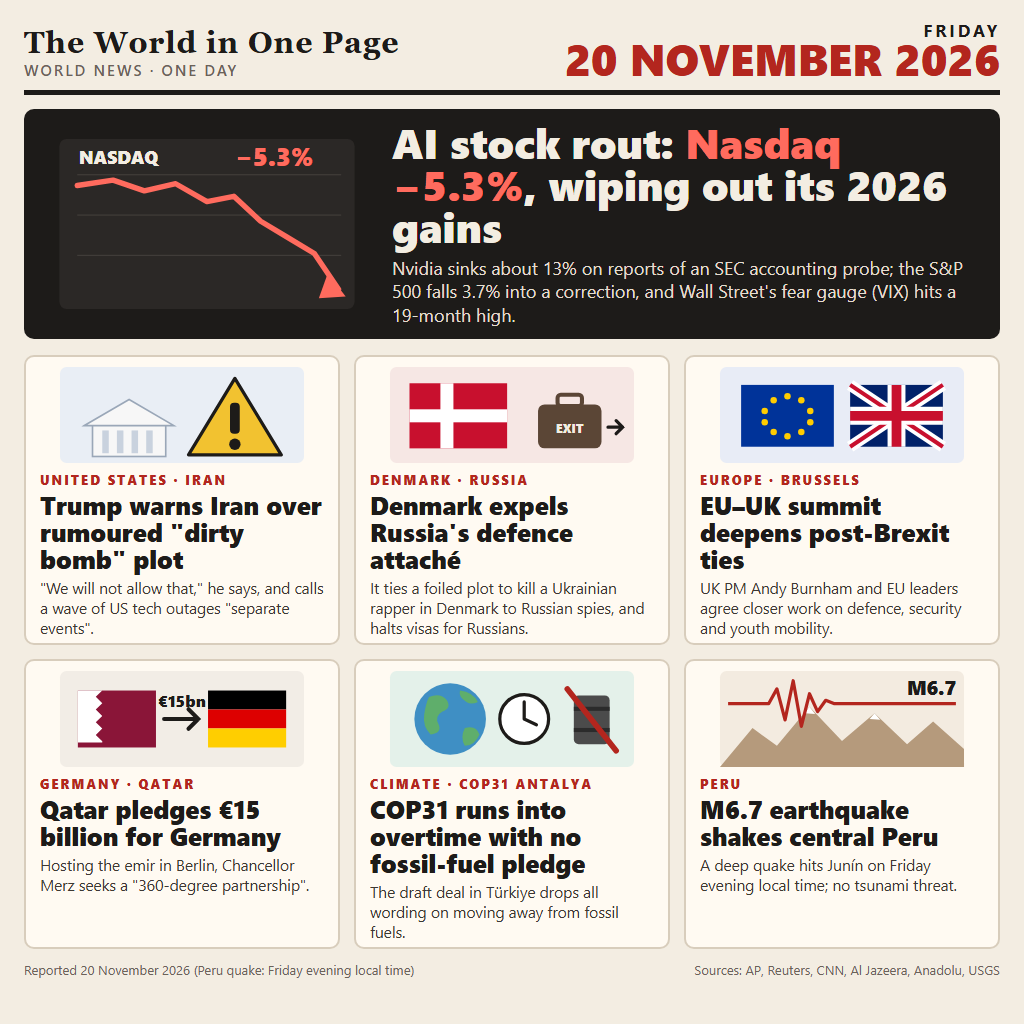
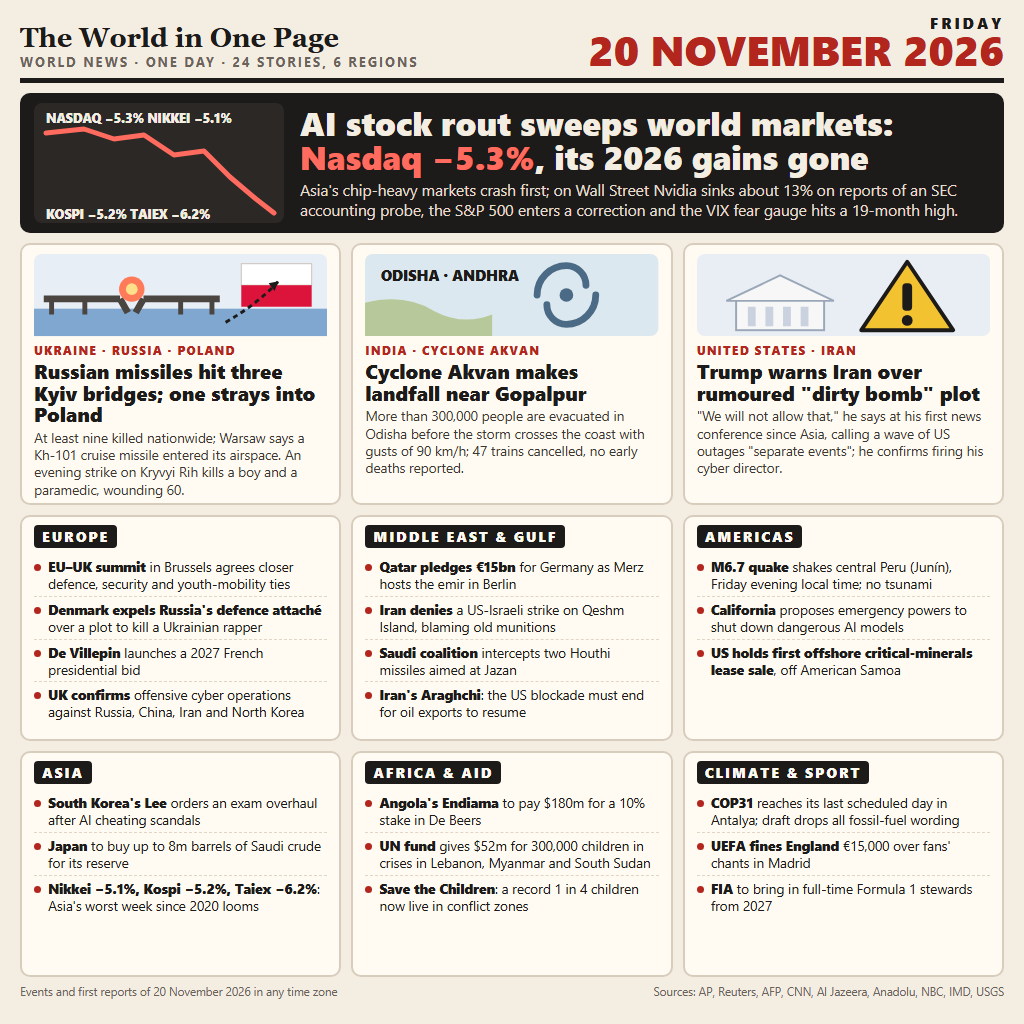
Denser edition: 24 stories across six regions

diff --git a/page/front.html b/page/front.html
@@ -6,142 +6,157 @@
 <style>
   * { box-sizing: border-box; margin: 0; padding: 0; }
   html, body { width: 1024px; height: 1024px; overflow: hidden; background: #f3ede2; }
-  body { font-family: "Segoe UI", "Helvetica Neue", Arial, sans-serif; color: #1d1b19; padding: 22px 24px; }
-  header { display: flex; justify-content: space-between; align-items: flex-end; border-bottom: 5px solid #1d1b19; padding-bottom: 10px; }
-  .mast { font-family: Georgia, "Times New Roman", serif; font-size: 30px; font-weight: 700; letter-spacing: 1px; }
-  .mast small { display: block; font-family: "Segoe UI", Arial, sans-serif; font-size: 15px; font-weight: 600; letter-spacing: 2px; color: #6b6259; }
-  .date { text-align: right; font-weight: 900; font-size: 44px; line-height: 0.95; color: #b3261e; }
-  .date small { display: block; font-size: 17px; font-weight: 700; color: #1d1b19; letter-spacing: 3px; }
-  .lead { display: grid; grid-template-columns: 330px 1fr; gap: 20px; align-items: center; margin-top: 14px; padding: 12px 18px; background: #1d1b19; color: #f3ede2; border-radius: 10px; }
-  .lead h1 { font-size: 42px; line-height: 1; font-weight: 900; }
+  body { font-family: "Segoe UI", "Helvetica Neue", Arial, sans-serif; color: #1d1b19; padding: 16px 20px; }
+  header { display: flex; justify-content: space-between; align-items: flex-end; border-bottom: 5px solid #1d1b19; padding-bottom: 8px; }
+  .mast { font-family: Georgia, "Times New Roman", serif; font-size: 27px; font-weight: 700; }
+  .mast small { display: block; font-family: "Segoe UI", Arial, sans-serif; font-size: 13px; font-weight: 700; letter-spacing: 2px; color: #6b6259; }
+  .date { text-align: right; font-weight: 900; font-size: 42px; line-height: 0.95; color: #b3261e; }
+  .date small { display: block; font-size: 15px; font-weight: 800; color: #1d1b19; letter-spacing: 3px; }
+
+  .lead { display: grid; grid-template-columns: 250px 1fr; gap: 16px; align-items: center; margin-top: 10px; padding: 10px 14px; background: #1d1b19; color: #f3ede2; border-radius: 10px; }
+  .lead h1 { font-size: 33px; line-height: 1.02; font-weight: 900; }
   .lead h1 em { font-style: normal; color: #ff6b5e; }
-  .lead p { font-size: 18px; line-height: 1.3; margin-top: 10px; color: #e6ddd0; }
-  .grid { display: grid; grid-template-columns: repeat(3, 1fr); gap: 14px; margin-top: 16px; }
-  .tile { background: #fffaf2; border: 2px solid #d8cdbc; border-radius: 10px; padding: 10px 14px 12px; height: 290px; overflow: hidden; display: flex; flex-direction: column; }
-  .tile svg { width: 100%; height: 96px; flex: none; }
-  .tag { font-size: 13px; font-weight: 800; letter-spacing: 2px; color: #b3261e; margin-top: 8px; }
-  .tile h2 { font-size: 25px; line-height: 1.08; font-weight: 900; margin-top: 3px; }
-  .tile p { font-size: 15.5px; line-height: 1.3; margin-top: 6px; color: #3d3833; }
-  footer { margin-top: 12px; font-size: 13px; color: #6b6259; display: flex; justify-content: space-between; }
+  .lead p { font-size: 15.5px; line-height: 1.3; margin-top: 6px; color: #e6ddd0; }
+
+  .big { display: grid; grid-template-columns: repeat(3, 1fr); gap: 10px; margin-top: 10px; }
+  .tile { background: #fffaf2; border: 2px solid #d8cdbc; border-radius: 10px; padding: 8px 12px 10px; height: 262px; overflow: hidden; }
+  .tile svg { width: 100%; height: 84px; display: block; }
+  .tag { font-size: 11.5px; font-weight: 800; letter-spacing: 1.5px; color: #b3261e; margin-top: 6px; }
+  .tile h2 { font-size: 20px; line-height: 1.08; font-weight: 900; margin-top: 2px; }
+  .tile p { font-size: 13.5px; line-height: 1.28; margin-top: 4px; color: #3d3833; }
+
+  .regions { display: grid; grid-template-columns: repeat(3, 1fr); gap: 10px; margin-top: 10px; }
+  .region { background: #fffaf2; border: 2px solid #d8cdbc; border-radius: 10px; padding: 8px 12px 8px; height: 226px; overflow: hidden; }
+  .region h3 { font-size: 14px; font-weight: 900; letter-spacing: 2px; color: #fffaf2; background: #1d1b19; display: inline-block; padding: 2px 8px; border-radius: 4px; }
+  .region ul { list-style: none; margin-top: 6px; }
+  .region li { font-size: 13.5px; line-height: 1.25; padding: 4px 0 4px 14px; position: relative; border-bottom: 1px dashed #e0d6c6; }
+  .region li:last-child { border-bottom: none; }
+  .region li::before { content: ""; position: absolute; left: 0; top: 10px; width: 7px; height: 7px; border-radius: 50%; background: #b3261e; }
+  .region li b { font-weight: 800; }
+  footer { margin-top: 7px; font-size: 11.5px; color: #6b6259; display: flex; justify-content: space-between; }
 </style>
 </head>
 <body>
 <header>
-  <div class="mast">The World in One Page<small>WORLD NEWS · ONE DAY</small></div>
+  <div class="mast">The World in One Page<small>WORLD NEWS · ONE DAY · 24 STORIES, 6 REGIONS</small></div>
   <div class="date"><small>FRIDAY</small>20 NOVEMBER 2026</div>
 </header>
 
 <section class="lead">
-  <svg viewBox="0 0 330 190" width="330" height="170" aria-label="Falling stock chart">
-    <rect x="0" y="0" width="330" height="190" rx="8" fill="#2b2826"/>
-    <g stroke="#4a4541" stroke-width="1">
-      <line x1="20" y1="40" x2="315" y2="40"/><line x1="20" y1="85" x2="315" y2="85"/><line x1="20" y1="130" x2="315" y2="130"/>
-    </g>
-    <polyline points="20,52 60,46 95,58 130,50 165,70 195,64 225,92 255,110 285,128 312,168" fill="none" stroke="#ff6b5e" stroke-width="6" stroke-linejoin="round" stroke-linecap="round"/>
-    <polygon points="300,150 320,176 290,178" fill="#ff6b5e"/>
-    <text x="22" y="28" fill="#f3ede2" font-size="20" font-weight="800">NASDAQ</text>
-    <text x="196" y="30" fill="#ff6b5e" font-size="28" font-weight="900">−5.3%</text>
+  <svg viewBox="0 0 250 120" width="250" height="120" aria-label="Falling stock charts for Nasdaq, Nikkei, Kospi and Taiex">
+    <rect x="0" y="0" width="250" height="120" rx="8" fill="#2b2826"/>
+    <polyline points="12,30 50,26 80,36 110,32 140,52 170,48 196,74 222,96 240,110" fill="none" stroke="#ff6b5e" stroke-width="5" stroke-linejoin="round" stroke-linecap="round"/>
+    <text x="12" y="20" fill="#f3ede2" font-size="12.5" font-weight="800">NASDAQ −5.3%   NIKKEI −5.1%</text>
+    <text x="12" y="116" fill="#f3ede2" font-size="12.5" font-weight="800">KOSPI −5.2%   TAIEX −6.2%</text>
   </svg>
   <div>
-    <h1>AI stock rout: <em>Nasdaq −5.3%</em>, wiping out its 2026 gains</h1>
-    <p>Nvidia sinks about 13% on reports of an SEC accounting probe; the S&amp;P 500 falls 3.7% into a correction, and Wall Street's fear gauge (VIX) hits a 19-month high.</p>
+    <h1>AI stock rout sweeps world markets: <em>Nasdaq −5.3%</em>, its 2026 gains gone</h1>
+    <p>Asia's chip-heavy markets crash first; on Wall Street Nvidia sinks about 13% on reports of an SEC accounting probe, the S&amp;P 500 enters a correction and the VIX fear gauge hits a 19-month high.</p>
   </div>
 </section>
 
-<section class="grid">
+<section class="big">
   <article class="tile">
-    <svg viewBox="0 0 300 118" aria-label="White House podium and warning sign">
-      <rect x="0" y="0" width="300" height="118" rx="8" fill="#e9eef5"/>
-      <rect x="40" y="70" width="90" height="40" fill="#f7f7f7" stroke="#9aa7b8" stroke-width="2"/>
-      <polygon points="30,72 85,40 140,72" fill="#f7f7f7" stroke="#9aa7b8" stroke-width="2"/>
-      <g fill="#c9d2de"><rect x="52" y="78" width="8" height="28"/><rect x="70" y="78" width="8" height="28"/><rect x="88" y="78" width="8" height="28"/><rect x="106" y="78" width="8" height="28"/></g>
-      <polygon points="215,14 272,108 158,108" fill="#f2c230" stroke="#1d1b19" stroke-width="4" stroke-linejoin="round"/>
-      <rect x="209" y="44" width="12" height="38" rx="5" fill="#1d1b19"/>
-      <circle cx="215" cy="95" r="7" fill="#1d1b19"/>
+    <svg viewBox="0 0 300 84" aria-label="A bridge broken over the Dnipro and a missile crossing into Poland">
+      <rect x="0" y="0" width="300" height="84" rx="8" fill="#e8eef6"/>
+      <rect x="0" y="56" width="300" height="28" fill="#7fa7cf"/>
+      <path d="M10 46 H88 M112 46 H190" stroke="#4a4541" stroke-width="7"/>
+      <path d="M18 46 V62 M52 46 V62 M150 46 V62 M182 46 V62" stroke="#4a4541" stroke-width="5"/>
+      <path d="M88 46 l8 14 M112 46 l-8 14" stroke="#4a4541" stroke-width="7"/>
+      <circle cx="100" cy="36" r="13" fill="#ff7a59"/><circle cx="100" cy="36" r="6" fill="#ffe08a"/>
+      <rect x="212" y="10" width="72" height="22" fill="#ffffff" stroke="#c9c2b8" stroke-width="1"/><rect x="212" y="32" width="72" height="22" fill="#dc143c"/>
+      <path d="M196 70 Q230 50 250 28" stroke="#1d1b19" stroke-width="3" fill="none" stroke-dasharray="5 4"/>
+      <path d="M250 28 l-10 2 l6 8 z" fill="#1d1b19"/>
+    </svg>
+    <div class="tag">UKRAINE · RUSSIA · POLAND</div>
+    <h2>Russian missiles hit three Kyiv bridges; one strays into Poland</h2>
+    <p>At least nine killed nationwide; Warsaw says a Kh-101 cruise missile entered its airspace. An evening strike on Kryvyi Rih kills a boy and a paramedic, wounding 60.</p>
+  </article>
+
+  <article class="tile">
+    <svg viewBox="0 0 300 84" aria-label="A cyclone spiral over the Bay of Bengal coast">
+      <rect x="0" y="0" width="300" height="84" rx="8" fill="#dbe8ef"/>
+      <path d="M0 84 V50 Q40 40 70 58 Q100 74 130 62 L130 84 z" fill="#b7c99a"/>
+      <g transform="translate(206 42)">
+        <path d="M0 0 m-30 0 a30 30 0 0 1 30 -30 a20 20 0 0 1 20 20" fill="none" stroke="#4b6a85" stroke-width="7" stroke-linecap="round"/>
+        <path d="M0 0 m30 0 a30 30 0 0 1 -30 30 a20 20 0 0 1 -20 -20" fill="none" stroke="#4b6a85" stroke-width="7" stroke-linecap="round"/>
+        <circle cx="0" cy="0" r="7" fill="#4b6a85"/>
+      </g>
+      <text x="16" y="28" fill="#1d1b19" font-size="15" font-weight="900">ODISHA · ANDHRA</text>
+    </svg>
+    <div class="tag">INDIA · CYCLONE AKVAN</div>
+    <h2>Cyclone Akvan makes landfall near Gopalpur</h2>
+    <p>More than 300,000 people are evacuated in Odisha before the storm crosses the coast with gusts of 90 km/h; 47 trains cancelled, no early deaths reported.</p>
+  </article>
+
+  <article class="tile">
+    <svg viewBox="0 0 300 84" aria-label="White House and a warning sign">
+      <rect x="0" y="0" width="300" height="84" rx="8" fill="#e9eef5"/>
+      <rect x="40" y="46" width="90" height="32" fill="#f7f7f7" stroke="#9aa7b8" stroke-width="2"/>
+      <polygon points="30,48 85,22 140,48" fill="#f7f7f7" stroke="#9aa7b8" stroke-width="2"/>
+      <g fill="#c9d2de"><rect x="52" y="54" width="8" height="20"/><rect x="70" y="54" width="8" height="20"/><rect x="88" y="54" width="8" height="20"/><rect x="106" y="54" width="8" height="20"/></g>
+      <polygon points="215,8 262,78 168,78" fill="#f2c230" stroke="#1d1b19" stroke-width="4" stroke-linejoin="round"/>
+      <rect x="210" y="30" width="10" height="28" rx="4" fill="#1d1b19"/><circle cx="215" cy="68" r="5.5" fill="#1d1b19"/>
     </svg>
     <div class="tag">UNITED STATES · IRAN</div>
     <h2>Trump warns Iran over rumoured "dirty bomb" plot</h2>
-    <p>"We will not allow that," he says, and calls a wave of US tech outages "separate events".</p>
-  </article>
-
-  <article class="tile">
-    <svg viewBox="0 0 300 118" aria-label="Danish flag and a departing diplomat's suitcase">
-      <rect x="0" y="0" width="300" height="118" rx="8" fill="#f6e7e4"/>
-      <rect x="24" y="20" width="120" height="80" fill="#c8102e"/>
-      <rect x="62" y="20" width="16" height="80" fill="#ffffff"/><rect x="24" y="52" width="120" height="16" fill="#ffffff"/>
-      <rect x="182" y="46" width="78" height="54" rx="8" fill="#5b4636"/>
-      <rect x="206" y="34" width="30" height="14" rx="4" fill="none" stroke="#5b4636" stroke-width="5"/>
-      <text x="221" y="81" text-anchor="middle" fill="#f3ede2" font-size="15" font-weight="800">EXIT</text>
-      <path d="M268 74 l18 0 m-8 -8 l8 8 l-8 8" stroke="#1d1b19" stroke-width="4" fill="none" stroke-linecap="round"/>
-    </svg>
-    <div class="tag">DENMARK · RUSSIA</div>
-    <h2>Denmark expels Russia's defence attaché</h2>
-    <p>It ties a foiled plot to kill a Ukrainian rapper in Denmark to Russian spies, and halts visas for Russians.</p>
-  </article>
-
-  <article class="tile">
-    <svg viewBox="0 0 300 118" aria-label="EU and UK flags side by side">
-      <rect x="0" y="0" width="300" height="118" rx="8" fill="#e8ecf6"/>
-      <rect x="26" y="22" width="114" height="76" fill="#003399"/>
-      <g fill="#ffcc00">
-        <circle cx="83" cy="36" r="4"/><circle cx="100" cy="41" r="4"/><circle cx="111" cy="54" r="4"/><circle cx="111" cy="68" r="4"/><circle cx="100" cy="80" r="4"/><circle cx="83" cy="85" r="4"/>
-        <circle cx="66" cy="80" r="4"/><circle cx="55" cy="68" r="4"/><circle cx="55" cy="54" r="4"/><circle cx="66" cy="41" r="4"/>
-      </g>
-      <rect x="160" y="22" width="114" height="76" fill="#012169"/>
-      <path d="M160 22 L274 98 M274 22 L160 98" stroke="#ffffff" stroke-width="14"/>
-      <path d="M160 22 L274 98 M274 22 L160 98" stroke="#c8102e" stroke-width="5"/>
-      <path d="M217 22 V98 M160 60 H274" stroke="#ffffff" stroke-width="22"/>
-      <path d="M217 22 V98 M160 60 H274" stroke="#c8102e" stroke-width="12"/>
-    </svg>
-    <div class="tag">EUROPE · BRUSSELS</div>
-    <h2>EU–UK summit deepens post-Brexit ties</h2>
-    <p>UK PM Andy Burnham and EU leaders agree closer work on defence, security and youth mobility.</p>
-  </article>
-
-  <article class="tile">
-    <svg viewBox="0 0 300 118" aria-label="Qatar and Germany flags with a euro sign">
-      <rect x="0" y="0" width="300" height="118" rx="8" fill="#f2ede6"/>
-      <rect x="22" y="24" width="96" height="70" fill="#8a1538"/>
-      <path d="M22 24 h30 l-8 7.8 l8 7.8 l-8 7.8 l8 7.8 l-8 7.8 l8 7.8 l-8 7.8 l8 7.8 v1.6 h-30 z" fill="#ffffff"/>
-      <rect x="182" y="24" width="96" height="23.3" fill="#000000"/><rect x="182" y="47.3" width="96" height="23.3" fill="#dd0000"/><rect x="182" y="70.6" width="96" height="23.4" fill="#ffce00"/>
-      <path d="M128 59 h42 m-12 -12 l12 12 l-12 12" stroke="#1d1b19" stroke-width="5" fill="none" stroke-linecap="round"/>
-      <text x="150" y="44" text-anchor="middle" fill="#1d1b19" font-size="20" font-weight="900">€15bn</text>
-    </svg>
-    <div class="tag">GERMANY · QATAR</div>
-    <h2>Qatar pledges €15 billion for Germany</h2>
-    <p>Hosting the emir in Berlin, Chancellor Merz seeks a "360-degree partnership".</p>
-  </article>
-
-  <article class="tile">
-    <svg viewBox="0 0 300 118" aria-label="Globe with a stopped clock and a crossed-out oil barrel">
-      <rect x="0" y="0" width="300" height="118" rx="8" fill="#e4f1ea"/>
-      <circle cx="74" cy="59" r="44" fill="#3f8fc4"/>
-      <path d="M48 32 q14 -6 22 4 q6 10 -6 14 q-10 6 -4 16 q4 10 -10 12 q-10 -10 -8 -24 q2 -14 6 -22 z M86 24 q16 2 22 14 q-8 4 -14 0 q-10 -6 -8 -14 z M92 70 q14 -4 18 8 q-6 14 -18 14 q-6 -10 0 -22 z" fill="#5fae6b"/>
-      <circle cx="165" cy="59" r="30" fill="#ffffff" stroke="#1d1b19" stroke-width="4"/>
-      <path d="M165 59 V38 M165 59 L180 66" stroke="#1d1b19" stroke-width="4" stroke-linecap="round"/>
-      <rect x="226" y="30" width="44" height="60" rx="6" fill="#4b4b4b"/>
-      <rect x="226" y="44" width="44" height="5" fill="#2b2b2b"/><rect x="226" y="70" width="44" height="5" fill="#2b2b2b"/>
-      <path d="M218 22 L278 98" stroke="#b3261e" stroke-width="7" stroke-linecap="round"/>
-    </svg>
-    <div class="tag">CLIMATE · COP31 ANTALYA</div>
-    <h2>COP31 runs into overtime with no fossil-fuel pledge</h2>
-    <p>The draft deal in Türkiye drops all wording on moving away from fossil fuels.</p>
-  </article>
-
-  <article class="tile">
-    <svg viewBox="0 0 300 118" aria-label="Seismograph trace over the Andes">
-      <rect x="0" y="0" width="300" height="118" rx="8" fill="#f3ebe0"/>
-      <polygon points="0,118 40,70 70,92 110,44 150,86 190,52 230,90 262,62 300,96 300,118" fill="#b59a7c"/>
-      <polygon points="104,52 110,44 117,53" fill="#ffffff"/><polygon points="184,59 190,52 197,60" fill="#ffffff"/>
-      <polyline points="10,40 60,40 70,22 80,60 90,12 100,68 110,28 120,50 130,36 140,40 290,40" fill="none" stroke="#b3261e" stroke-width="4" stroke-linejoin="round"/>
-      <text x="290" y="30" text-anchor="end" fill="#1d1b19" font-size="24" font-weight="900">M6.7</text>
-    </svg>
-    <div class="tag">PERU</div>
-    <h2>M6.7 earthquake shakes central Peru</h2>
-    <p>A deep quake hits Junín on Friday evening local time; no tsunami threat.</p>
+    <p>"We will not allow that," he says at his first news conference since Asia, calling a wave of US outages "separate events"; he confirms firing his cyber director.</p>
   </article>
 </section>
 
-<footer><span>Reported 20 November 2026 (Peru quake: Friday evening local time)</span><span>Sources: AP, Reuters, CNN, Al Jazeera, Anadolu, USGS</span></footer>
+<section class="regions">
+  <div class="region">
+    <h3>EUROPE</h3>
+    <ul>
+      <li><b>EU–UK summit</b> in Brussels agrees closer defence, security and youth-mobility ties</li>
+      <li><b>Denmark expels Russia's defence attaché</b> over a plot to kill a Ukrainian rapper</li>
+      <li><b>De Villepin</b> launches a 2027 French presidential bid</li>
+      <li><b>UK confirms</b> offensive cyber operations against Russia, China, Iran and North Korea</li>
+    </ul>
+  </div>
+  <div class="region">
+    <h3>MIDDLE EAST &amp; GULF</h3>
+    <ul>
+      <li><b>Qatar pledges €15bn</b> for Germany as Merz hosts the emir in Berlin</li>
+      <li><b>Iran denies</b> a US-Israeli strike on Qeshm Island, blaming old munitions</li>
+      <li><b>Saudi coalition</b> intercepts two Houthi missiles aimed at Jazan</li>
+      <li><b>Iran's Araghchi</b>: the US blockade must end for oil exports to resume</li>
+    </ul>
+  </div>
+  <div class="region">
+    <h3>AMERICAS</h3>
+    <ul>
+      <li><b>M6.7 quake</b> shakes central Peru (Junín), Friday evening local time; no tsunami</li>
+      <li><b>California</b> proposes emergency powers to shut down dangerous AI models</li>
+      <li><b>US holds first offshore critical-minerals lease sale</b>, off American Samoa</li>
+    </ul>
+  </div>
+  <div class="region">
+    <h3>ASIA</h3>
+    <ul>
+      <li><b>South Korea's Lee</b> orders an exam overhaul after AI cheating scandals</li>
+      <li><b>Japan</b> to buy up to 8m barrels of Saudi crude for its reserve</li>
+      <li><b>Nikkei −5.1%, Kospi −5.2%, Taiex −6.2%</b>: Asia's worst week since 2020 looms</li>
+    </ul>
+  </div>
+  <div class="region">
+    <h3>AFRICA &amp; AID</h3>
+    <ul>
+      <li><b>Angola's Endiama</b> to pay $180m for a 10% stake in De Beers</li>
+      <li><b>UN fund</b> gives $52m for 300,000 children in crises in Lebanon, Myanmar and South Sudan</li>
+      <li><b>Save the Children</b>: a record 1 in 4 children now live in conflict zones</li>
+    </ul>
+  </div>
+  <div class="region">
+    <h3>CLIMATE &amp; SPORT</h3>
+    <ul>
+      <li><b>COP31</b> reaches its last scheduled day in Antalya; draft drops all fossil-fuel wording</li>
+      <li><b>UEFA fines England</b> €15,000 over fans' chants in Madrid</li>
+      <li><b>FIA</b> to bring in full-time Formula 1 stewards from 2027</li>
+    </ul>
+  </div>
+</section>
+
+<footer><span>Events and first reports of 20 November 2026 in any time zone</span><span>Sources: AP, Reuters, AFP, CNN, Al Jazeera, Anadolu, NBC, IMD, USGS</span></footer>
 </body>
 </html>

diff --git a/README.md b/README.md
@@ -4,7 +4,7 @@
 [![rank](https://make.fun/badge/news-image-20261120/GamerJagdish/news-20261120/rank.svg)](https://make.fun/bounty/news-image-20261120/leaderboard?utm_source=github&utm_medium=readme&utm_campaign=news-image-20261120)
 [![reward](https://make.fun/badge/news-image-20261120/GamerJagdish/news-20261120/reward.svg)](https://make.fun/bounty/news-image-20261120?utm_source=github&utm_medium=readme&utm_campaign=news-image-20261120)
 
-A one-page front page of the world's news on Friday 20 November 2026: the AI stock rout, Trump's warning to Iran, Denmark expelling Russia's defence attaché, the EU–UK summit, Qatar's €15 billion pledge to Germany, COP31's overtime and a magnitude 6.7 quake in Peru. The page is drawn in HTML and SVG (page/front.html) and rendered to entry.png at 1024 by 1024.
+A dense one-page front page of the world's news on Friday 20 November 2026: the global AI stock rout, Russian missiles on Kyiv's bridges and into Polish airspace, Cyclone Akvan's landfall in India, Trump's warning to Iran, and 20 more stories across six regions. The page is drawn in HTML and SVG (page/front.html) and rendered to entry.png at 1024 by 1024.
 
 ## Run it
 
